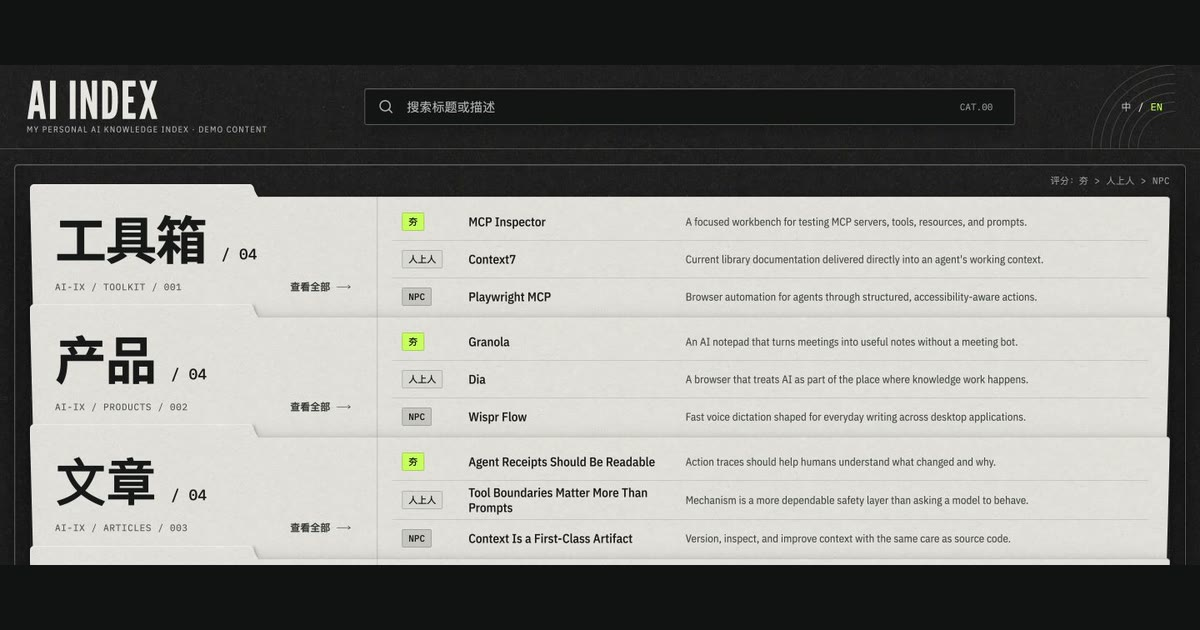
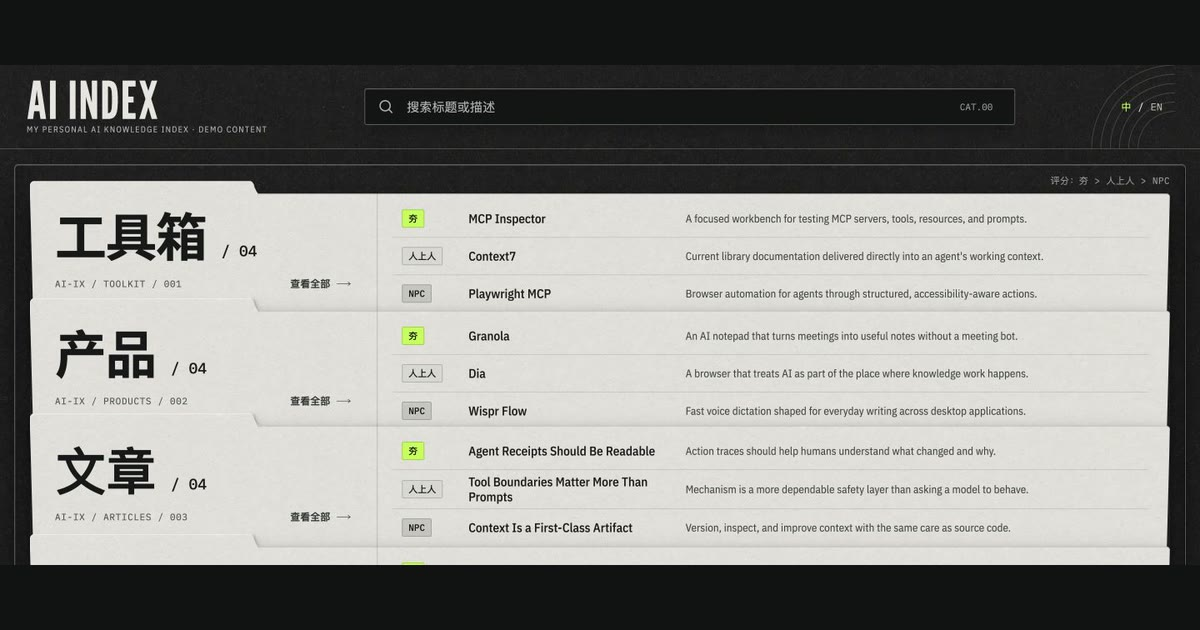
fix: correct language switch states

diff --git a/detail.html b/detail.html
@@ -29,7 +29,7 @@
     <link rel="preload" href="./assets/paper-grain.webp" as="image" type="image/webp" />
     <link rel="stylesheet" href="./styles.css?v=20260813-fixed-header-center-main-v23" />
     <link rel="stylesheet" href="./detail.css?v=20260816-reading-hierarchy-v13" />
-    <script src="./app.js?v=20260826-m9-discovery-v3" defer></script>
+    <script src="./app.js?v=20260826-language-switch-v4" defer></script>
   </head>
   <body class="detail-body"><!--
       设计主张：详情页是一份从档案盒中抽出的完整纸质记录，不是博客文章或属性面板。
@@ -63,9 +63,9 @@
         </form>
 
         <button class="language-switch" id="language-switch" type="button" aria-label="Switch interface to English">
-          <span class="language-switch__muted">中</span>
+          <span class="language-switch__active">中</span>
           <span aria-hidden="true">/</span>
-          <span class="language-switch__active">EN</span>
+          <span class="language-switch__muted">EN</span>
         </button>
       </div>
 

diff --git a/index.html b/index.html
@@ -39,7 +39,7 @@
     <link rel="icon" href="./favicon.svg" type="image/svg+xml" />
     <link rel="preload" href="./assets/paper-grain.webp" as="image" type="image/webp" />
     <link rel="stylesheet" href="./styles.css?v=20260813-fixed-header-center-main-v23" />
-    <script src="./app.js?v=20260826-m9-discovery-v3" defer></script>
+    <script src="./app.js?v=20260826-language-switch-v4" defer></script>
   </head>
   <body><!--
       DIRECTION CONTRACT — Crate Index / Read mode / FORM seed ccfbb7c7.
@@ -83,9 +83,9 @@
         </form>
 
         <button class="language-switch" id="language-switch" type="button" aria-label="Switch interface to English">
-          <span class="language-switch__muted">中</span>
+          <span class="language-switch__active">中</span>
           <span aria-hidden="true">/</span>
-          <span class="language-switch__active">EN</span>
+          <span class="language-switch__muted">EN</span>
         </button>
       </div>
 

diff --git a/app.js b/app.js
@@ -682,8 +682,8 @@ function applyLanguage() {
   languageSwitch.setAttribute("aria-label", copy.languageAria);
   languageSwitch.innerHTML =
     state.language === "zh"
-      ? '<span class="language-switch__muted">中</span><span aria-hidden="true">/</span><span class="language-switch__active">EN</span>'
-      : '<span class="language-switch__active">中</span><span aria-hidden="true">/</span><span class="language-switch__muted">EN</span>';
+      ? '<span class="language-switch__active">中</span><span aria-hidden="true">/</span><span class="language-switch__muted">EN</span>'
+      : '<span class="language-switch__muted">中</span><span aria-hidden="true">/</span><span class="language-switch__active">EN</span>';
 
   renderCategoryControls();
   renderCategories();

diff --git a/tests/discoverability-contract.test.ts b/tests/discoverability-contract.test.ts
@@ -77,7 +77,7 @@ describe("M9 公开站可发现性契约", () => {
     const shareImage = readFileSync(new URL("../public/share-image.jpg", import.meta.url));
     expect(jpegDimensions(shareImage)).toEqual({ width: 1200, height: 630 });
     expect(createHash("sha256").update(shareImage).digest("hex")).toBe(
[2 lines of base64/hex data omitted]
     );
   });
 

diff --git a/styles.css b/styles.css
@@ -295,7 +295,7 @@ input {
 }
 
 .language-switch:hover {
-  border-color: rgba(231, 229, 223, 0.3);
+  border-color: transparent;
 }
 
 .language-switch__muted {
